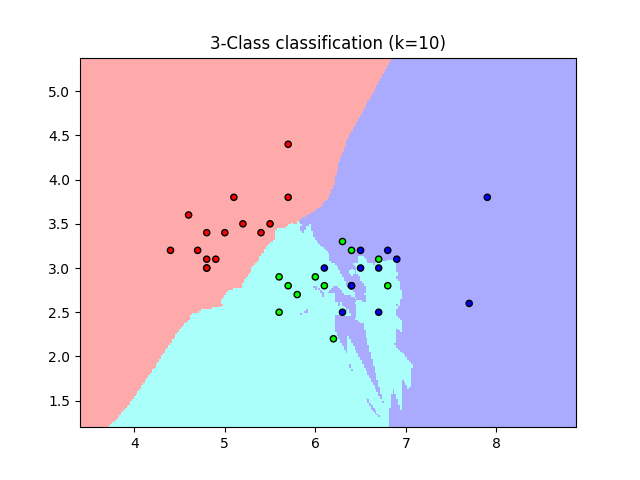
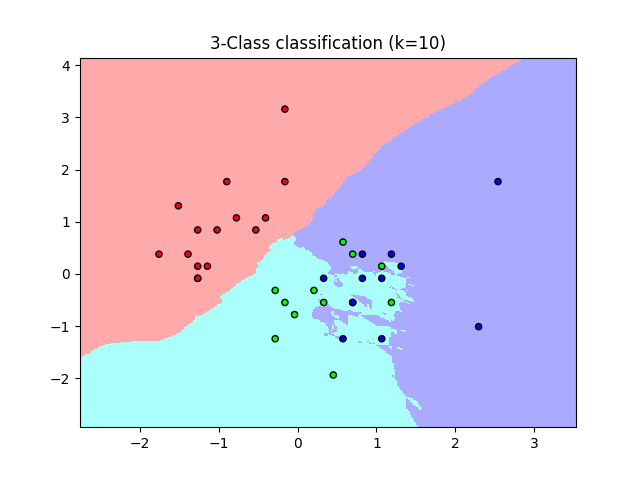
Update comments and KNN example

diff --git a/examples/clustering/example_knn_classifier.py b/examples/clustering/example_knn_classifier.py
@@ -5,21 +5,26 @@ from __future__ import absolute_import
 from packtml.clustering import KNNClassifier
 from packtml.utils.plotting import add_decision_boundary_to_axis
 from sklearn.model_selection import train_test_split
+from sklearn.preprocessing import StandardScaler
 from sklearn.metrics import accuracy_score
 from sklearn.datasets import load_iris
 from matplotlib import pyplot as plt
 from matplotlib.colors import ListedColormap
-import numpy as np
 import sys
 
 # #############################################################################
 # Create a classification sub-dataset using iris
 iris = load_iris()
-X = iris.data[:, :2]
+X = iris.data[:, :2]  # just use the first two dimensions
 y = iris.target
 
 # split data
 X_train, X_test, y_train, y_test = train_test_split(X, y, random_state=42)
+
+# scale the data
+scaler = StandardScaler()
+X_train = scaler.fit_transform(X_train)
+X_test = scaler.transform(X_test)
 
 # #############################################################################
 # Fit a k-nearest neighbor model and get predictions

diff --git a/packtml/clustering/knn.py b/packtml/clustering/knn.py
@@ -80,7 +80,8 @@ class KNNClassifier(BaseSimpleEstimator):
         # Compute the pairwise distances between each observation in
         # the dataset and the training data. This can be relatively expensive
         # for very large datasets!!
-        dists = euclidean_distances(X, self.X)
+        train = self.X
+        dists = euclidean_distances(X, train)
 
         # Arg sort to find the shortest distance for each row. This sorts
         # elements in each row (independent of other rows) to determine the
@@ -93,7 +94,13 @@ class KNNClassifier(BaseSimpleEstimator):
         nearest = np.argsort(dists, axis=1)
 
         # We only care about the top K, really, so get sorted and then truncate
+        # I.e:
+        # array([[1, 2, 1],
+        #           ...
+        #        [0, 0, 0]])
         predicted_labels = self.y[nearest][:, :self.k]
 
         # We want the most common along the rows as the predictions
+        # I.e:
+        # array([1, ..., 0])
         return mode(predicted_labels, axis=-1)[0].ravel()
